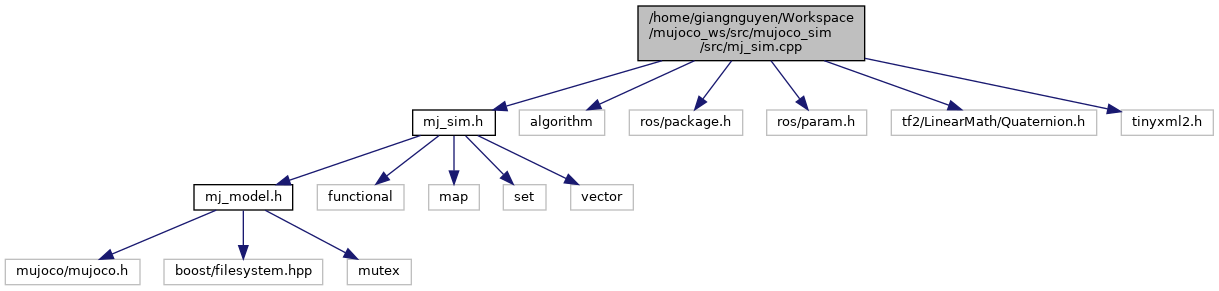
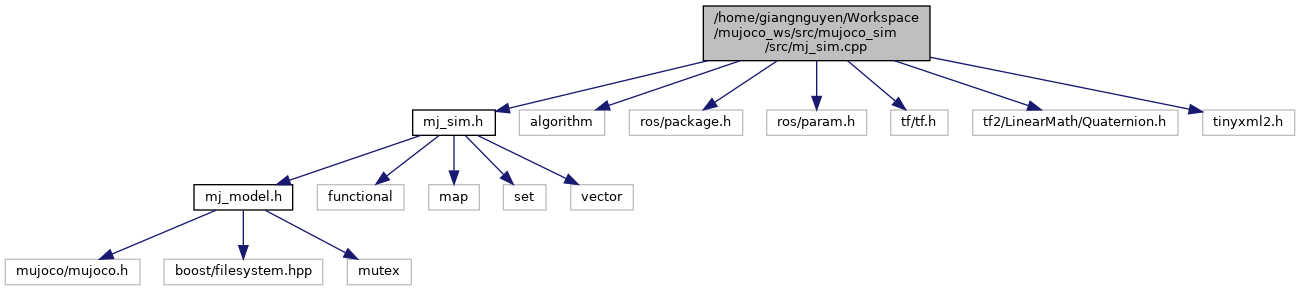
Multiply with scale

diff --git a/docs/html/mj__sim_8h_source.html b/docs/html/mj__sim_8h_source.html
@@ -155,19 +155,19 @@ $(function() {
 <div class="line"><a name="l00110"></a><span class="lineno"><a class="line" href="classMjSim.html#a33ec58bdacc7568f41b11591e6df3b58">  110</a></span>&#160;    <span class="keyword">static</span> std::map&lt;int, std::vector&lt;mjtNum&gt;&gt; <a class="code" href="classMjSim.html#a33ec58bdacc7568f41b11591e6df3b58">geom_pose</a>;</div>
 <div class="line"><a name="l00111"></a><span class="lineno">  111</span>&#160;};</div>
 </div><!-- fragment --></div><!-- contents -->
-<div class="ttc" id="aclassMjSim_html_ad993ae887ee3759a6fbf3b307c2c1fc4"><div class="ttname"><a href="classMjSim.html#ad993ae887ee3759a6fbf3b307c2c1fc4">MjSim::remove_body</a></div><div class="ttdeci">static bool remove_body(const std::vector&lt; std::string &gt; &amp;body_names)</div><div class="ttdoc">Remove bodies with name.</div><div class="ttdef"><b>Definition:</b> mj_sim.cpp:817</div></div>
+<div class="ttc" id="aclassMjSim_html_ad993ae887ee3759a6fbf3b307c2c1fc4"><div class="ttname"><a href="classMjSim.html#ad993ae887ee3759a6fbf3b307c2c1fc4">MjSim::remove_body</a></div><div class="ttdeci">static bool remove_body(const std::vector&lt; std::string &gt; &amp;body_names)</div><div class="ttdoc">Remove bodies with name.</div><div class="ttdef"><b>Definition:</b> mj_sim.cpp:853</div></div>
 <div class="ttc" id="aclassMjSim_html_a1b22b4acbcbc8d870ad07f6de414402f"><div class="ttname"><a href="classMjSim.html#a1b22b4acbcbc8d870ad07f6de414402f">MjSim::tau</a></div><div class="ttdeci">static mjtNum * tau</div><div class="ttdef"><b>Definition:</b> mj_sim.h:97</div></div>
 <div class="ttc" id="aclassMjSim_html_aa4379dd751034d7ba76d7155923f3eb2"><div class="ttname"><a href="classMjSim.html#aa4379dd751034d7ba76d7155923f3eb2">MjSim::joint_names</a></div><div class="ttdeci">static std::map&lt; std::string, std::vector&lt; std::string &gt; &gt; joint_names</div><div class="ttdef"><b>Definition:</b> mj_sim.h:83</div></div>
-<div class="ttc" id="aclassMjSim_html_a0d37111518dcde137b77be9a451e856d"><div class="ttname"><a href="classMjSim.html#a0d37111518dcde137b77be9a451e856d">MjSim::init</a></div><div class="ttdeci">void init()</div><div class="ttdoc">Initialize the simulation.</div><div class="ttdef"><b>Definition:</b> mj_sim.cpp:735</div></div>
+<div class="ttc" id="aclassMjSim_html_a0d37111518dcde137b77be9a451e856d"><div class="ttname"><a href="classMjSim.html#a0d37111518dcde137b77be9a451e856d">MjSim::init</a></div><div class="ttdeci">void init()</div><div class="ttdoc">Initialize the simulation.</div><div class="ttdef"><b>Definition:</b> mj_sim.cpp:771</div></div>
 <div class="ttc" id="aclassMjSim_html"><div class="ttname"><a href="classMjSim.html">MjSim</a></div><div class="ttdef"><b>Definition:</b> mj_sim.h:32</div></div>
-<div class="ttc" id="aclassMjSim_html_a4ba7cffb42cf4ca87dc06d0deb1c54be"><div class="ttname"><a href="classMjSim.html#a4ba7cffb42cf4ca87dc06d0deb1c54be">MjSim::init_sensors</a></div><div class="ttdeci">void init_sensors()</div><div class="ttdoc">Initialize the sensors.</div><div class="ttdef"><b>Definition:</b> mj_sim.cpp:744</div></div>
+<div class="ttc" id="aclassMjSim_html_a4ba7cffb42cf4ca87dc06d0deb1c54be"><div class="ttname"><a href="classMjSim.html#a4ba7cffb42cf4ca87dc06d0deb1c54be">MjSim::init_sensors</a></div><div class="ttdeci">void init_sensors()</div><div class="ttdoc">Initialize the sensors.</div><div class="ttdef"><b>Definition:</b> mj_sim.cpp:780</div></div>
 <div class="ttc" id="aclassMjSim_html_a893cc5a9f597dca52cb85768db696487"><div class="ttname"><a href="classMjSim.html#a893cc5a9f597dca52cb85768db696487">MjSim::spawned_object_names</a></div><div class="ttdeci">static std::set&lt; std::string &gt; spawned_object_names</div><div class="ttdef"><b>Definition:</b> mj_sim.h:91</div></div>
 <div class="ttc" id="aclassMjSim_html_a33ec58bdacc7568f41b11591e6df3b58"><div class="ttname"><a href="classMjSim.html#a33ec58bdacc7568f41b11591e6df3b58">MjSim::geom_pose</a></div><div class="ttdeci">static std::map&lt; int, std::vector&lt; mjtNum &gt; &gt; geom_pose</div><div class="ttdef"><b>Definition:</b> mj_sim.h:110</div></div>
 <div class="ttc" id="aclassMjSim_html_aaf4f7195525701e4b57ef967ca75d421"><div class="ttname"><a href="classMjSim.html#aaf4f7195525701e4b57ef967ca75d421">MjSim::add_odom_joints</a></div><div class="ttdeci">static std::map&lt; std::string, std::map&lt; std::string, bool &gt; &gt; add_odom_joints</div><div class="ttdef"><b>Definition:</b> mj_sim.h:99</div></div>
-<div class="ttc" id="amj__sim_8h_html_af8301d50bb5cd4ff96f7d72d92be4a33"><div class="ttname"><a href="mj__sim_8h.html#af8301d50bb5cd4ff96f7d72d92be4a33">load_tmp_model</a></div><div class="ttdeci">bool load_tmp_model(bool reset=true)</div><div class="ttdoc">Load the tmp_model_path.</div><div class="ttdef"><b>Definition:</b> mj_sim.cpp:693</div></div>
-<div class="ttc" id="aclassMjSim_html_a1adfd2bf3e4419677ef8063cc13ec11f"><div class="ttname"><a href="classMjSim.html#a1adfd2bf3e4419677ef8063cc13ec11f">MjSim::~MjSim</a></div><div class="ttdeci">~MjSim()</div><div class="ttdef"><b>Definition:</b> mj_sim.cpp:60</div></div>
-<div class="ttc" id="aclassMjSim_html_a6097e3b550ebc38140275ecea5f4598a"><div class="ttname"><a href="classMjSim.html#a6097e3b550ebc38140275ecea5f4598a">MjSim::set_odom_vels</a></div><div class="ttdeci">void set_odom_vels()</div><div class="ttdoc">Set the odom joint velocities.</div><div class="ttdef"><b>Definition:</b> mj_sim.cpp:848</div></div>
-<div class="ttc" id="aclassMjSim_html_ab44529fa518614fdbef0bd5a70b48399"><div class="ttname"><a href="classMjSim.html#ab44529fa518614fdbef0bd5a70b48399">MjSim::add_data</a></div><div class="ttdeci">static bool add_data()</div><div class="ttdoc">Spawn new data from file.</div><div class="ttdef"><b>Definition:</b> mj_sim.cpp:788</div></div>
+<div class="ttc" id="amj__sim_8h_html_af8301d50bb5cd4ff96f7d72d92be4a33"><div class="ttname"><a href="mj__sim_8h.html#af8301d50bb5cd4ff96f7d72d92be4a33">load_tmp_model</a></div><div class="ttdeci">bool load_tmp_model(bool reset=true)</div><div class="ttdoc">Load the tmp_model_path.</div><div class="ttdef"><b>Definition:</b> mj_sim.cpp:729</div></div>
+<div class="ttc" id="aclassMjSim_html_a1adfd2bf3e4419677ef8063cc13ec11f"><div class="ttname"><a href="classMjSim.html#a1adfd2bf3e4419677ef8063cc13ec11f">MjSim::~MjSim</a></div><div class="ttdeci">~MjSim()</div><div class="ttdef"><b>Definition:</b> mj_sim.cpp:61</div></div>
+<div class="ttc" id="aclassMjSim_html_a6097e3b550ebc38140275ecea5f4598a"><div class="ttname"><a href="classMjSim.html#a6097e3b550ebc38140275ecea5f4598a">MjSim::set_odom_vels</a></div><div class="ttdeci">void set_odom_vels()</div><div class="ttdoc">Set the odom joint velocities.</div><div class="ttdef"><b>Definition:</b> mj_sim.cpp:884</div></div>
+<div class="ttc" id="aclassMjSim_html_ab44529fa518614fdbef0bd5a70b48399"><div class="ttname"><a href="classMjSim.html#ab44529fa518614fdbef0bd5a70b48399">MjSim::add_data</a></div><div class="ttdeci">static bool add_data()</div><div class="ttdoc">Spawn new data from file.</div><div class="ttdef"><b>Definition:</b> mj_sim.cpp:824</div></div>
 <div class="ttc" id="aclassMjSim_html_a2dc314bfc332a1e99e052f41193b3eff"><div class="ttname"><a href="classMjSim.html#a2dc314bfc332a1e99e052f41193b3eff">MjSim::joint_ignores</a></div><div class="ttdeci">static std::set&lt; std::string &gt; joint_ignores</div><div class="ttdef"><b>Definition:</b> mj_sim.h:85</div></div>
 <div class="ttc" id="aclassMjSim_html_aa810b31343a0c16940cf482e29d504d0"><div class="ttname"><a href="classMjSim.html#aa810b31343a0c16940cf482e29d504d0">MjSim::u</a></div><div class="ttdeci">static mjtNum * u</div><div class="ttdef"><b>Definition:</b> mj_sim.h:95</div></div>
 <div class="ttc" id="aclassMjSim_html_aca804da71c36848ed0121b8cfb55ce08"><div class="ttname"><a href="classMjSim.html#aca804da71c36848ed0121b8cfb55ce08">MjSim::max_time_step</a></div><div class="ttdeci">static double max_time_step</div><div class="ttdef"><b>Definition:</b> mj_sim.h:81</div></div>
@@ -176,7 +176,7 @@ $(function() {
 <div class="ttc" id="aclassMjSim_html_a3cac09569d2a8805ee71453d8c2c4336"><div class="ttname"><a href="classMjSim.html#a3cac09569d2a8805ee71453d8c2c4336">MjSim::pose_inits</a></div><div class="ttdeci">static std::map&lt; std::string, std::vector&lt; float &gt; &gt; pose_inits</div><div class="ttdef"><b>Definition:</b> mj_sim.h:105</div></div>
 <div class="ttc" id="aclassMjSim_html_a0dfaec832b709cfea62ec80e5fd94bad"><div class="ttname"><a href="classMjSim.html#a0dfaec832b709cfea62ec80e5fd94bad">MjSim::odom_vels</a></div><div class="ttdeci">static std::map&lt; std::string, mjtNum &gt; odom_vels</div><div class="ttdef"><b>Definition:</b> mj_sim.h:87</div></div>
 <div class="ttc" id="aclassMjSim_html_a6bf6dfb17e4a82bc9f23e7868c7112cc"><div class="ttname"><a href="classMjSim.html#a6bf6dfb17e4a82bc9f23e7868c7112cc">MjSim::robots</a></div><div class="ttdeci">static std::vector&lt; std::string &gt; robots</div><div class="ttdef"><b>Definition:</b> mj_sim.h:101</div></div>
-<div class="ttc" id="aclassMjSim_html_a8873b8410c75a0d286298054ee06c328"><div class="ttname"><a href="classMjSim.html#a8873b8410c75a0d286298054ee06c328">MjSim::controller</a></div><div class="ttdeci">void controller()</div><div class="ttdoc">Implement the controller.</div><div class="ttdef"><b>Definition:</b> mj_sim.cpp:829</div></div>
+<div class="ttc" id="aclassMjSim_html_a8873b8410c75a0d286298054ee06c328"><div class="ttname"><a href="classMjSim.html#a8873b8410c75a0d286298054ee06c328">MjSim::controller</a></div><div class="ttdeci">void controller()</div><div class="ttdoc">Implement the controller.</div><div class="ttdef"><b>Definition:</b> mj_sim.cpp:865</div></div>
 <div class="ttc" id="amj__model_8h_html"><div class="ttname"><a href="mj__model_8h.html">mj_model.h</a></div></div>
 <div class="ttc" id="aclassMjSim_html_ab8d19db292d90e508ce690a01765e0a0"><div class="ttname"><a href="classMjSim.html#ab8d19db292d90e508ce690a01765e0a0">MjSim::reload_mesh</a></div><div class="ttdeci">static bool reload_mesh</div><div class="ttdef"><b>Definition:</b> mj_sim.h:107</div></div>
 <div class="ttc" id="aclassMjSim_html_a9539a80dbc6c2a30e001735821aaffad"><div class="ttname"><a href="classMjSim.html#a9539a80dbc6c2a30e001735821aaffad">MjSim::link_names</a></div><div class="ttdeci">static std::set&lt; std::string &gt; link_names</div><div class="ttdef"><b>Definition:</b> mj_sim.h:89</div></div>

diff --git a/docs/html/mj__ros_8h_source.html b/docs/html/mj__ros_8h_source.html
@@ -218,21 +218,21 @@ $(function() {
 <div class="line"><a name="l00253"></a><span class="lineno">  253</span>&#160;    std::map&lt;std::string, float&gt; joint_inits;</div>
 <div class="line"><a name="l00254"></a><span class="lineno">  254</span>&#160;};</div>
 </div><!-- fragment --></div><!-- contents -->
-<div class="ttc" id="aclassMjRos_html_ac370eb27a0e893853019a6ee91e8b7dd"><div class="ttname"><a href="classMjRos.html#ac370eb27a0e893853019a6ee91e8b7dd">MjRos::publish_tf</a></div><div class="ttdeci">void publish_tf(const EObjectType object_type=EObjectType::None)</div><div class="ttdoc">Publish tf.</div><div class="ttdef"><b>Definition:</b> mj_ros.cpp:1080</div></div>
+<div class="ttc" id="aclassMjRos_html_ac370eb27a0e893853019a6ee91e8b7dd"><div class="ttname"><a href="classMjRos.html#ac370eb27a0e893853019a6ee91e8b7dd">MjRos::publish_tf</a></div><div class="ttdeci">void publish_tf(const EObjectType object_type=EObjectType::None)</div><div class="ttdoc">Publish tf.</div><div class="ttdef"><b>Definition:</b> mj_ros.cpp:1088</div></div>
 <div class="ttc" id="amj__ros_8h_html_aabe7f7aab7f558d194e94364f92de670a81f4537631c9ab219ec74de554483adc"><div class="ttname"><a href="mj__ros_8h.html#aabe7f7aab7f558d194e94364f92de670a81f4537631c9ab219ec74de554483adc">World</a></div><div class="ttdeci">@ World</div><div class="ttdef"><b>Definition:</b> mj_ros.h:66</div></div>
 <div class="ttc" id="amj__sim_8h_html"><div class="ttname"><a href="mj__sim_8h.html">mj_sim.h</a></div></div>
-<div class="ttc" id="aclassMjRos_html_a6cd917b814a446c78c72fb120db9062b"><div class="ttname"><a href="classMjRos.html#a6cd917b814a446c78c72fb120db9062b">MjRos::publish_object_state_array</a></div><div class="ttdeci">void publish_object_state_array(const EObjectType object_type=EObjectType::None)</div><div class="ttdoc">Publish object states.</div><div class="ttdef"><b>Definition:</b> mj_ros.cpp:1282</div></div>
+<div class="ttc" id="aclassMjRos_html_a6cd917b814a446c78c72fb120db9062b"><div class="ttname"><a href="classMjRos.html#a6cd917b814a446c78c72fb120db9062b">MjRos::publish_object_state_array</a></div><div class="ttdeci">void publish_object_state_array(const EObjectType object_type=EObjectType::None)</div><div class="ttdoc">Publish object states.</div><div class="ttdef"><b>Definition:</b> mj_ros.cpp:1290</div></div>
 <div class="ttc" id="amj__ros_8h_html_aabe7f7aab7f558d194e94364f92de670a233067a1ddef5e57bca7e55cfd55e4c7"><div class="ttname"><a href="mj__ros_8h.html#aabe7f7aab7f558d194e94364f92de670a233067a1ddef5e57bca7e55cfd55e4c7">SpawnedObject</a></div><div class="ttdeci">@ SpawnedObject</div><div class="ttdef"><b>Definition:</b> mj_ros.h:67</div></div>
-<div class="ttc" id="aclassMjRos_html_a1ee3ddb85ce5dd2364dcc0f5776a1685"><div class="ttname"><a href="classMjRos.html#a1ee3ddb85ce5dd2364dcc0f5776a1685">MjRos::publish_base_pose</a></div><div class="ttdeci">void publish_base_pose()</div><div class="ttdoc">Publish base pose.</div><div class="ttdef"><b>Definition:</b> mj_ros.cpp:1451</div></div>
-<div class="ttc" id="aclassMjRos_html_ada54adbe85c78521f7b078133607fd13"><div class="ttname"><a href="classMjRos.html#ada54adbe85c78521f7b078133607fd13">MjRos::spawn_and_destroy_objects</a></div><div class="ttdeci">void spawn_and_destroy_objects()</div><div class="ttdoc">Run spawn and destroy objects.</div><div class="ttdef"><b>Definition:</b> mj_ros.cpp:963</div></div>
+<div class="ttc" id="aclassMjRos_html_a1ee3ddb85ce5dd2364dcc0f5776a1685"><div class="ttname"><a href="classMjRos.html#a1ee3ddb85ce5dd2364dcc0f5776a1685">MjRos::publish_base_pose</a></div><div class="ttdeci">void publish_base_pose()</div><div class="ttdoc">Publish base pose.</div><div class="ttdef"><b>Definition:</b> mj_ros.cpp:1459</div></div>
+<div class="ttc" id="aclassMjRos_html_ada54adbe85c78521f7b078133607fd13"><div class="ttname"><a href="classMjRos.html#ada54adbe85c78521f7b078133607fd13">MjRos::spawn_and_destroy_objects</a></div><div class="ttdeci">void spawn_and_destroy_objects()</div><div class="ttdoc">Run spawn and destroy objects.</div><div class="ttdef"><b>Definition:</b> mj_ros.cpp:971</div></div>
 <div class="ttc" id="aclassMjRos_html_a6ac18666bf03ec3810874f87a5533091"><div class="ttname"><a href="classMjRos.html#a6ac18666bf03ec3810874f87a5533091">MjRos::~MjRos</a></div><div class="ttdeci">~MjRos()</div><div class="ttdef"><b>Definition:</b> mj_ros.cpp:227</div></div>
 <div class="ttc" id="aclassCmdVelCallback_html"><div class="ttname"><a href="classCmdVelCallback.html">CmdVelCallback</a></div><div class="ttdef"><b>Definition:</b> mj_ros.h:46</div></div>
-<div class="ttc" id="aclassMjRos_html_a537a8e13f34c5f3015f73a57fd33e852"><div class="ttname"><a href="classMjRos.html#a537a8e13f34c5f3015f73a57fd33e852">MjRos::publish_sensor_data</a></div><div class="ttdeci">void publish_sensor_data()</div><div class="ttdoc">Publish sensor data.</div><div class="ttdef"><b>Definition:</b> mj_ros.cpp:1526</div></div>
+<div class="ttc" id="aclassMjRos_html_a537a8e13f34c5f3015f73a57fd33e852"><div class="ttname"><a href="classMjRos.html#a537a8e13f34c5f3015f73a57fd33e852">MjRos::publish_sensor_data</a></div><div class="ttdeci">void publish_sensor_data()</div><div class="ttdoc">Publish sensor data.</div><div class="ttdef"><b>Definition:</b> mj_ros.cpp:1534</div></div>
 <div class="ttc" id="aclassCmdVelCallback_html_a9064bd955326a3888310ca288a1acd33"><div class="ttname"><a href="classCmdVelCallback.html#a9064bd955326a3888310ca288a1acd33">CmdVelCallback::callback</a></div><div class="ttdeci">void callback(const geometry_msgs::Twist &amp;msg)</div><div class="ttdef"><b>Definition:</b> mj_ros.cpp:212</div></div>
 <div class="ttc" id="amj__ros_8h_html_a43ddbc6ba0014ceee874705cdc2e33c2"><div class="ttname"><a href="mj__ros_8h.html#a43ddbc6ba0014ceee874705cdc2e33c2">set_params</a></div><div class="ttdeci">void set_params()</div><div class="ttdoc">Set tmp_model_name, world_path and odom_joints.</div><div class="ttdef"><b>Definition:</b> mj_ros.cpp:73</div></div>
 <div class="ttc" id="amj__ros_8h_html_aabe7f7aab7f558d194e94364f92de670"><div class="ttname"><a href="mj__ros_8h.html#aabe7f7aab7f558d194e94364f92de670">EObjectType</a></div><div class="ttdeci">EObjectType</div><div class="ttdef"><b>Definition:</b> mj_ros.h:62</div></div>
-<div class="ttc" id="aclassMjRos_html_aefd4c6005e491db078694032388d862e"><div class="ttname"><a href="classMjRos.html#aefd4c6005e491db078694032388d862e">MjRos::publish_marker_array</a></div><div class="ttdeci">void publish_marker_array(const EObjectType object_type=EObjectType::None)</div><div class="ttdoc">Publish markers.</div><div class="ttdef"><b>Definition:</b> mj_ros.cpp:1192</div></div>
-<div class="ttc" id="aclassMjRos_html_a1b6936171c2406e1452880626b7758d9"><div class="ttname"><a href="classMjRos.html#a1b6936171c2406e1452880626b7758d9">MjRos::publish_joint_states</a></div><div class="ttdeci">void publish_joint_states(const EObjectType object_type=EObjectType::None)</div><div class="ttdoc">Publish world joint states.</div><div class="ttdef"><b>Definition:</b> mj_ros.cpp:1378</div></div>
+<div class="ttc" id="aclassMjRos_html_aefd4c6005e491db078694032388d862e"><div class="ttname"><a href="classMjRos.html#aefd4c6005e491db078694032388d862e">MjRos::publish_marker_array</a></div><div class="ttdeci">void publish_marker_array(const EObjectType object_type=EObjectType::None)</div><div class="ttdoc">Publish markers.</div><div class="ttdef"><b>Definition:</b> mj_ros.cpp:1200</div></div>
+<div class="ttc" id="aclassMjRos_html_a1b6936171c2406e1452880626b7758d9"><div class="ttname"><a href="classMjRos.html#a1b6936171c2406e1452880626b7758d9">MjRos::publish_joint_states</a></div><div class="ttdeci">void publish_joint_states(const EObjectType object_type=EObjectType::None)</div><div class="ttdoc">Publish world joint states.</div><div class="ttdef"><b>Definition:</b> mj_ros.cpp:1386</div></div>
 <div class="ttc" id="amj__ros_8h_html_aabe7f7aab7f558d194e94364f92de670ac9d3e887722f2bc482bcca9d41c512af"><div class="ttname"><a href="mj__ros_8h.html#aabe7f7aab7f558d194e94364f92de670ac9d3e887722f2bc482bcca9d41c512af">None</a></div><div class="ttdeci">@ None</div><div class="ttdef"><b>Definition:</b> mj_ros.h:64</div></div>
 <div class="ttc" id="aclassMjRos_html"><div class="ttname"><a href="classMjRos.html">MjRos</a></div><div class="ttdef"><b>Definition:</b> mj_ros.h:70</div></div>
 <div class="ttc" id="aclassMjRos_html_ac4fdfcf53d7e46c55046a43ba554e31b"><div class="ttname"><a href="classMjRos.html#ac4fdfcf53d7e46c55046a43ba554e31b">MjRos::ros_start</a></div><div class="ttdeci">static ros::Time ros_start</div><div class="ttdoc">Start time of ROS.</div><div class="ttdef"><b>Definition:</b> mj_ros.h:222</div></div>

diff --git a/docs/html/mj__model_8h_source.html b/docs/html/mj__model_8h_source.html
@@ -117,7 +117,7 @@ $(function() {
 <div class="line"><a name="l00045"></a><span class="lineno">   45</span>&#160; </div>
 <div class="line"><a name="l00046"></a><span class="lineno">   46</span>&#160;<span class="keyword">extern</span> boost::filesystem::path <a class="code" href="mj__model_8h.html#aa991bc10fa98d556b3da1d65863b5858">tmp_world_path</a>;</div>
 <div class="line"><a name="l00047"></a><span class="lineno">   47</span>&#160; </div>
-<div class="line"><a name="l00048"></a><span class="lineno">   48</span>&#160;<span class="keyword">extern</span> std::map&lt;std::string, boost::filesystem::path&gt; <a class="code" href="mj__model_8h.html#a0f39d08c52417c40f6a48ff60800dc7e">mesh_paths</a>;</div>
+<div class="line"><a name="l00048"></a><span class="lineno">   48</span>&#160;<span class="keyword">extern</span> std::map&lt;std::string, std::pair&lt;boost::filesystem::path, std::vector&lt;mjtNum&gt;&gt;&gt; <a class="code" href="mj__model_8h.html#a51d29511020033f2909e7b6924bd7eb2">mesh_paths</a>;</div>
 </div><!-- fragment --></div><!-- contents -->
 <div class="ttc" id="amj__model_8h_html_aeecea58d25fb5f1f6169c413ab9faf6e"><div class="ttname"><a href="mj__model_8h.html#aeecea58d25fb5f1f6169c413ab9faf6e">tmp_model_name</a></div><div class="ttdeci">std::string tmp_model_name</div><div class="ttdef"><b>Definition:</b> mj_model.cpp:32</div></div>
 <div class="ttc" id="amj__model_8h_html_aa991bc10fa98d556b3da1d65863b5858"><div class="ttname"><a href="mj__model_8h.html#aa991bc10fa98d556b3da1d65863b5858">tmp_world_path</a></div><div class="ttdeci">boost::filesystem::path tmp_world_path</div><div class="ttdef"><b>Definition:</b> mj_model.cpp:42</div></div>
@@ -126,7 +126,7 @@ $(function() {
 <div class="ttc" id="amj__model_8h_html_a5286cc4b814be39830d1733170b8ef3a"><div class="ttname"><a href="mj__model_8h.html#a5286cc4b814be39830d1733170b8ef3a">d</a></div><div class="ttdeci">mjData * d</div><div class="ttdef"><b>Definition:</b> mj_model.cpp:26</div></div>
 <div class="ttc" id="amj__model_8h_html_aa3242d18959d3232e36d5ed5006cd2d2"><div class="ttname"><a href="mj__model_8h.html#aa3242d18959d3232e36d5ed5006cd2d2">tmp_model_path</a></div><div class="ttdeci">boost::filesystem::path tmp_model_path</div><div class="ttdef"><b>Definition:</b> mj_model.cpp:36</div></div>
 <div class="ttc" id="amj__model_8h_html_ab809d073880cebd47e7223a73bf6ca5e"><div class="ttname"><a href="mj__model_8h.html#ab809d073880cebd47e7223a73bf6ca5e">model_path</a></div><div class="ttdeci">boost::filesystem::path model_path</div><div class="ttdef"><b>Definition:</b> mj_model.cpp:34</div></div>
-<div class="ttc" id="amj__model_8h_html_a0f39d08c52417c40f6a48ff60800dc7e"><div class="ttname"><a href="mj__model_8h.html#a0f39d08c52417c40f6a48ff60800dc7e">mesh_paths</a></div><div class="ttdeci">std::map&lt; std::string, boost::filesystem::path &gt; mesh_paths</div><div class="ttdef"><b>Definition:</b> mj_model.cpp:44</div></div>
+<div class="ttc" id="amj__model_8h_html_a51d29511020033f2909e7b6924bd7eb2"><div class="ttname"><a href="mj__model_8h.html#a51d29511020033f2909e7b6924bd7eb2">mesh_paths</a></div><div class="ttdeci">std::map&lt; std::string, std::pair&lt; boost::filesystem::path, std::vector&lt; mjtNum &gt; &gt; &gt; mesh_paths</div><div class="ttdef"><b>Definition:</b> mj_model.cpp:44</div></div>
 <div class="ttc" id="amj__model_8h_html_a2197996e6b57e659623d3d56f5f9fd63"><div class="ttname"><a href="mj__model_8h.html#a2197996e6b57e659623d3d56f5f9fd63">rtf</a></div><div class="ttdeci">double rtf</div><div class="ttdef"><b>Definition:</b> mj_model.cpp:30</div></div>
 <div class="ttc" id="amj__model_8h_html_ae517df665d331ea2030329312ed2c84b"><div class="ttname"><a href="mj__model_8h.html#ae517df665d331ea2030329312ed2c84b">world_path</a></div><div class="ttdeci">boost::filesystem::path world_path</div><div class="ttdef"><b>Definition:</b> mj_model.cpp:40</div></div>
 <div class="ttc" id="amj__model_8h_html_adb5dac2d5dd70de1f16f5189f18a8624"><div class="ttname"><a href="mj__model_8h.html#adb5dac2d5dd70de1f16f5189f18a8624">cache_model_path</a></div><div class="ttdeci">boost::filesystem::path cache_model_path</div><div class="ttdef"><b>Definition:</b> mj_model.cpp:38</div></div>

diff --git a/docs/html/mj__model_8cpp.html b/docs/html/mj__model_8cpp.html
@@ -110,8 +110,8 @@ Variables</h2></td></tr>
 <tr class="separator:ae517df665d331ea2030329312ed2c84b"><td class="memSeparator" colspan="2">&#160;</td></tr>
 <tr class="memitem:aa991bc10fa98d556b3da1d65863b5858"><td class="memItemLeft" align="right" valign="top">boost::filesystem::path&#160;</td><td class="memItemRight" valign="bottom"><a class="el" href="mj__model_8cpp.html#aa991bc10fa98d556b3da1d65863b5858">tmp_world_path</a> = <a class="el" href="mj__model_8h.html#aa3242d18959d3232e36d5ed5006cd2d2">tmp_model_path</a></td></tr>
 <tr class="separator:aa991bc10fa98d556b3da1d65863b5858"><td class="memSeparator" colspan="2">&#160;</td></tr>
-<tr class="memitem:a0f39d08c52417c40f6a48ff60800dc7e"><td class="memItemLeft" align="right" valign="top">std::map&lt; std::string, boost::filesystem::path &gt;&#160;</td><td class="memItemRight" valign="bottom"><a class="el" href="mj__model_8cpp.html#a0f39d08c52417c40f6a48ff60800dc7e">mesh_paths</a></td></tr>
-<tr class="separator:a0f39d08c52417c40f6a48ff60800dc7e"><td class="memSeparator" colspan="2">&#160;</td></tr>
+<tr class="memitem:a51d29511020033f2909e7b6924bd7eb2"><td class="memItemLeft" align="right" valign="top">std::map&lt; std::string, std::pair&lt; boost::filesystem::path, std::vector&lt; mjtNum &gt; &gt; &gt;&#160;</td><td class="memItemRight" valign="bottom"><a class="el" href="mj__model_8cpp.html#a51d29511020033f2909e7b6924bd7eb2">mesh_paths</a></td></tr>
+<tr class="separator:a51d29511020033f2909e7b6924bd7eb2"><td class="memSeparator" colspan="2">&#160;</td></tr>
 </table>
 <h2 class="groupheader">Variable Documentation</h2>
 <a id="adb5dac2d5dd70de1f16f5189f18a8624"></a>
@@ -156,14 +156,14 @@ Variables</h2></td></tr>
 
 </div>
 </div>
-<a id="a0f39d08c52417c40f6a48ff60800dc7e"></a>
-<h2 class="memtitle"><span class="permalink"><a href="#a0f39d08c52417c40f6a48ff60800dc7e">&#9670;&nbsp;</a></span>mesh_paths</h2>
+<a id="a51d29511020033f2909e7b6924bd7eb2"></a>
+<h2 class="memtitle"><span class="permalink"><a href="#a51d29511020033f2909e7b6924bd7eb2">&#9670;&nbsp;</a></span>mesh_paths</h2>
 
 <div class="memitem">
 <div class="memproto">
       <table class="memname">
         <tr>
-          <td class="memname">std::map&lt;std::string, boost::filesystem::path&gt; mesh_paths</td>
+          <td class="memname">std::map&lt;std::string, std::pair&lt;boost::filesystem::path, std::vector&lt;mjtNum&gt; &gt; &gt; mesh_paths</td>
         </tr>
       </table>
 </div><div class="memdoc">

diff --git a/docs/html/mj__model_8h.html b/docs/html/mj__model_8h.html
@@ -131,8 +131,8 @@ Variables</h2></td></tr>
 <tr class="separator:ae517df665d331ea2030329312ed2c84b"><td class="memSeparator" colspan="2">&#160;</td></tr>
 <tr class="memitem:aa991bc10fa98d556b3da1d65863b5858"><td class="memItemLeft" align="right" valign="top">boost::filesystem::path&#160;</td><td class="memItemRight" valign="bottom"><a class="el" href="mj__model_8h.html#aa991bc10fa98d556b3da1d65863b5858">tmp_world_path</a></td></tr>
 <tr class="separator:aa991bc10fa98d556b3da1d65863b5858"><td class="memSeparator" colspan="2">&#160;</td></tr>
-<tr class="memitem:a0f39d08c52417c40f6a48ff60800dc7e"><td class="memItemLeft" align="right" valign="top">std::map&lt; std::string, boost::filesystem::path &gt;&#160;</td><td class="memItemRight" valign="bottom"><a class="el" href="mj__model_8h.html#a0f39d08c52417c40f6a48ff60800dc7e">mesh_paths</a></td></tr>
-<tr class="separator:a0f39d08c52417c40f6a48ff60800dc7e"><td class="memSeparator" colspan="2">&#160;</td></tr>
+<tr class="memitem:a51d29511020033f2909e7b6924bd7eb2"><td class="memItemLeft" align="right" valign="top">std::map&lt; std::string, std::pair&lt; boost::filesystem::path, std::vector&lt; mjtNum &gt; &gt; &gt;&#160;</td><td class="memItemRight" valign="bottom"><a class="el" href="mj__model_8h.html#a51d29511020033f2909e7b6924bd7eb2">mesh_paths</a></td></tr>
+<tr class="separator:a51d29511020033f2909e7b6924bd7eb2"><td class="memSeparator" colspan="2">&#160;</td></tr>
 </table>
 <h2 class="groupheader">Variable Documentation</h2>
 <a id="adb5dac2d5dd70de1f16f5189f18a8624"></a>
@@ -177,14 +177,14 @@ Variables</h2></td></tr>
 
 </div>
 </div>
-<a id="a0f39d08c52417c40f6a48ff60800dc7e"></a>
-<h2 class="memtitle"><span class="permalink"><a href="#a0f39d08c52417c40f6a48ff60800dc7e">&#9670;&nbsp;</a></span>mesh_paths</h2>
+<a id="a51d29511020033f2909e7b6924bd7eb2"></a>
+<h2 class="memtitle"><span class="permalink"><a href="#a51d29511020033f2909e7b6924bd7eb2">&#9670;&nbsp;</a></span>mesh_paths</h2>
 
 <div class="memitem">
 <div class="memproto">
       <table class="memname">
         <tr>
-          <td class="memname">std::map&lt;std::string, boost::filesystem::path&gt; mesh_paths</td>
+          <td class="memname">std::map&lt;std::string, std::pair&lt;boost::filesystem::path, std::vector&lt;mjtNum&gt; &gt; &gt; mesh_paths</td>
         </tr>
       </table>
 </div><div class="memdoc">

diff --git a/docs/html/mj__sim_8cpp.html b/docs/html/mj__sim_8cpp.html
@@ -76,6 +76,7 @@ $(function() {
 <code>#include &lt;algorithm&gt;</code><br />
 <code>#include &lt;ros/package.h&gt;</code><br />
 <code>#include &lt;ros/param.h&gt;</code><br />
+<code>#include &lt;tf/tf.h&gt;</code><br />
 <code>#include &lt;tf2/LinearMath/Quaternion.h&gt;</code><br />
 <code>#include &lt;tinyxml2.h&gt;</code><br />
 </div><div class="textblock"><div class="dynheader">
@@ -83,13 +84,14 @@ Include dependency graph for mj_sim.cpp:</div>
 <div class="dyncontent">
 <div class="center"><img src="mj__sim_8cpp__incl.png" border="0" usemap="#_2home_2giangnguyen_2Workspace_2mujoco__ws_2src_2mujoco__sim_2src_2mj__sim_8cpp" alt=""/></div>
 <map name="_2home_2giangnguyen_2Workspace_2mujoco__ws_2src_2mujoco__sim_2src_2mj__sim_8cpp" id="_2home_2giangnguyen_2Workspace_2mujoco__ws_2src_2mujoco__sim_2src_2mj__sim_8cpp">
-<area shape="rect" title=" " alt="" coords="638,5,865,61"/>
+<area shape="rect" title=" " alt="" coords="703,5,930,61"/>
 <area shape="rect" href="mj__sim_8h.html" title=" " alt="" coords="413,109,495,136"/>
 <area shape="rect" title=" " alt="" coords="519,109,605,136"/>
 <area shape="rect" title=" " alt="" coords="629,109,743,136"/>
 <area shape="rect" title=" " alt="" coords="767,109,867,136"/>
-<area shape="rect" title=" " alt="" coords="891,109,1097,136"/>
-<area shape="rect" title=" " alt="" coords="1121,109,1213,136"/>
+<area shape="rect" title=" " alt="" coords="891,109,948,136"/>
+<area shape="rect" title=" " alt="" coords="973,109,1178,136"/>
+<area shape="rect" title=" " alt="" coords="1203,109,1295,136"/>
 <area shape="rect" href="mj__model_8h.html" title=" " alt="" coords="194,184,293,211"/>
 <area shape="rect" title=" " alt="" coords="317,184,404,211"/>
 <area shape="rect" title=" " alt="" coords="429,184,479,211"/>

diff --git a/docs/html/search/variables_9.js b/docs/html/search/variables_9.js
@@ -4,7 +4,7 @@ var searchData=
   ['marker_208',['marker',['../mj__ros_8cpp.html#a6668403339af078ca4948d80514bf485',1,'mj_ros.cpp']]],
   ['marker_5farray_209',['marker_array',['../mj__ros_8cpp.html#acbf95c03fa38f2799243d2ccb7427fd9',1,'mj_ros.cpp']]],
   ['max_5ftime_5fstep_210',['max_time_step',['../classMjSim.html#aca804da71c36848ed0121b8cfb55ce08',1,'MjSim']]],
-  ['mesh_5fpaths_211',['mesh_paths',['../mj__model_8cpp.html#a0f39d08c52417c40f6a48ff60800dc7e',1,'mesh_paths():&#160;mj_model.cpp'],['../mj__model_8h.html#a0f39d08c52417c40f6a48ff60800dc7e',1,'mesh_paths():&#160;mj_model.cpp']]],
+  ['mesh_5fpaths_211',['mesh_paths',['../mj__model_8cpp.html#a51d29511020033f2909e7b6924bd7eb2',1,'mesh_paths():&#160;mj_model.cpp'],['../mj__model_8h.html#a51d29511020033f2909e7b6924bd7eb2',1,'mesh_paths():&#160;mj_model.cpp']]],
   ['meshes_5fpath_5fstring_212',['meshes_path_string',['../mujoco__compile_8cpp.html#a002b4466f710d71c57255039bc63e88a',1,'mujoco_compile.cpp']]],
   ['model_213',['model',['../mujoco__compile_8cpp.html#a2ec70ff62d5e8410a8071003425a6fe3',1,'mujoco_compile.cpp']]],
   ['model_5fpath_214',['model_path',['../mj__model_8cpp.html#ab809d073880cebd47e7223a73bf6ca5e',1,'model_path():&#160;mj_model.cpp'],['../mj__model_8h.html#ab809d073880cebd47e7223a73bf6ca5e',1,'model_path():&#160;mj_model.cpp']]],

diff --git a/docs/html/search/all_b.js b/docs/html/search/all_b.js
@@ -5,7 +5,7 @@ var searchData=
   ['marker_36',['marker',['../mj__ros_8cpp.html#a6668403339af078ca4948d80514bf485',1,'mj_ros.cpp']]],
   ['marker_5farray_37',['marker_array',['../mj__ros_8cpp.html#acbf95c03fa38f2799243d2ccb7427fd9',1,'mj_ros.cpp']]],
   ['max_5ftime_5fstep_38',['max_time_step',['../classMjSim.html#aca804da71c36848ed0121b8cfb55ce08',1,'MjSim']]],
-  ['mesh_5fpaths_39',['mesh_paths',['../mj__model_8cpp.html#a0f39d08c52417c40f6a48ff60800dc7e',1,'mesh_paths():&#160;mj_model.cpp'],['../mj__model_8h.html#a0f39d08c52417c40f6a48ff60800dc7e',1,'mesh_paths():&#160;mj_model.cpp']]],
+  ['mesh_5fpaths_39',['mesh_paths',['../mj__model_8cpp.html#a51d29511020033f2909e7b6924bd7eb2',1,'mesh_paths():&#160;mj_model.cpp'],['../mj__model_8h.html#a51d29511020033f2909e7b6924bd7eb2',1,'mesh_paths():&#160;mj_model.cpp']]],
   ['meshes_5fpath_5fstring_40',['meshes_path_string',['../mujoco__compile_8cpp.html#a002b4466f710d71c57255039bc63e88a',1,'mujoco_compile.cpp']]],
   ['mj_5fhw_5finterface_2ecpp_41',['mj_hw_interface.cpp',['../mj__hw__interface_8cpp.html',1,'']]],
   ['mj_5fhw_5finterface_2eh_42',['mj_hw_interface.h',['../mj__hw__interface_8h.html',1,'']]],

diff --git a/docs/html/globals.html b/docs/html/globals.html
@@ -194,8 +194,8 @@ $(function() {
 : <a class="el" href="mj__ros_8cpp.html#acbf95c03fa38f2799243d2ccb7427fd9">mj_ros.cpp</a>
 </li>
 <li>mesh_paths
-: <a class="el" href="mj__model_8cpp.html#a0f39d08c52417c40f6a48ff60800dc7e">mj_model.cpp</a>
-, <a class="el" href="mj__model_8h.html#a0f39d08c52417c40f6a48ff60800dc7e">mj_model.h</a>
+: <a class="el" href="mj__model_8cpp.html#a51d29511020033f2909e7b6924bd7eb2">mj_model.cpp</a>
+, <a class="el" href="mj__model_8h.html#a51d29511020033f2909e7b6924bd7eb2">mj_model.h</a>
 </li>
 <li>meshes_path_string
 : <a class="el" href="mujoco__compile_8cpp.html#a002b4466f710d71c57255039bc63e88a">mujoco_compile.cpp</a>

diff --git a/docs/html/globals_vars.html b/docs/html/globals_vars.html
@@ -133,8 +133,8 @@ $(function() {
 : <a class="el" href="mj__ros_8cpp.html#acbf95c03fa38f2799243d2ccb7427fd9">mj_ros.cpp</a>
 </li>
 <li>mesh_paths
-: <a class="el" href="mj__model_8cpp.html#a0f39d08c52417c40f6a48ff60800dc7e">mj_model.cpp</a>
-, <a class="el" href="mj__model_8h.html#a0f39d08c52417c40f6a48ff60800dc7e">mj_model.h</a>
+: <a class="el" href="mj__model_8cpp.html#a51d29511020033f2909e7b6924bd7eb2">mj_model.cpp</a>
+, <a class="el" href="mj__model_8h.html#a51d29511020033f2909e7b6924bd7eb2">mj_model.h</a>
 </li>
 <li>meshes_path_string
 : <a class="el" href="mujoco__compile_8cpp.html#a002b4466f710d71c57255039bc63e88a">mujoco_compile.cpp</a>

diff --git a/src/mj_sim.cpp b/src/mj_sim.cpp
@@ -23,6 +23,7 @@
 #include <algorithm>
 #include <ros/package.h>
 #include <ros/param.h>
+#include <tf/tf.h>
 #include <tf2/LinearMath/Quaternion.h>
 #include <tinyxml2.h>
 
@@ -241,7 +242,15 @@ static void init_tmp()
 					{
 						asset_element->SetAttribute("file", (meshdir_abs_path / file_path).c_str());
 					}
-					mesh_paths[asset_element->Attribute("name")] = asset_element->Attribute("file");
+					std::string scale_str = "1 1 1";
+					if (asset_element->Attribute("scale") != nullptr)
+					{
+						scale_str = asset_element->Attribute("scale");
+					}
+					std::istringstream iss(scale_str);
+					std::vector<mjtNum> scale = std::vector<mjtNum>{std::istream_iterator<mjtNum>(iss), std::istream_iterator<mjtNum>()};
+
+					mesh_paths[asset_element->Attribute("name")] = {asset_element->Attribute("file"), scale};
 				}
 			}
 		}
@@ -278,7 +287,7 @@ static void init_tmp()
 				{
 					meshdir_abs_path = meshdir_path;
 				}
-				
+
 				element->DeleteAttribute("meshdir");
 			}
 		}
@@ -296,7 +305,16 @@ static void init_tmp()
 					{
 						asset_element->SetAttribute("file", (meshdir_abs_path / file_path).c_str());
 					}
-					mesh_paths[asset_element->Attribute("name")] = asset_element->Attribute("file");
+
+					std::string scale_str = "1 1 1";
+					if (asset_element->Attribute("scale") != nullptr)
+					{
+						scale_str = asset_element->Attribute("scale");
+					}
+					std::istringstream iss(scale_str);
+					std::vector<mjtNum> scale = std::vector<mjtNum>{std::istream_iterator<mjtNum>(iss), std::istream_iterator<mjtNum>()};
+
+					mesh_paths[asset_element->Attribute("name")] = {asset_element->Attribute("file"), scale};
 				}
 			}
 		}
@@ -617,28 +635,44 @@ void get_geom_element(tinyxml2::XMLElement *parent_element)
 		else if (strcmp(element->Value(), "geom") == 0 && element->Attribute("type") != nullptr && strcmp(element->Attribute("type"), "mesh") == 0)
 		{
 			std::vector<mjtNum> geom_pos = {0, 0, 0};
-			std::vector<mjtNum> geom_quat = {1, 0, 0, 0};
 			if (element->Attribute("pos") != nullptr)
 			{
 				std::string pos_str = element->Attribute("pos");
 				std::istringstream iss(pos_str);
 				geom_pos = std::vector<mjtNum>{std::istream_iterator<mjtNum>(iss), std::istream_iterator<mjtNum>()};
 			}
+			for (size_t i = 0; i < geom_pos.size(); i++)
+			{
+				geom_pos[i] *= mesh_paths[element->Attribute("mesh")].second[i];
+			}
+
+			std::vector<mjtNum> euler = {0, 0, 0};
 			if (element->Attribute("quat") != nullptr)
 			{
 				std::string quat_str = element->Attribute("quat");
 				std::istringstream iss(quat_str);
-				geom_quat = std::vector<mjtNum>{std::istream_iterator<mjtNum>(iss), std::istream_iterator<mjtNum>()};
+				std::vector<mjtNum> geom_quat = std::vector<mjtNum>{std::istream_iterator<mjtNum>(iss), std::istream_iterator<mjtNum>()};
+				tf::Quaternion quat(geom_quat[1], geom_quat[2], geom_quat[3], geom_quat[0]);
+				tf::Matrix3x3 rot_mat(quat);
+				rot_mat.getRPY(euler[0], euler[1], euler[2]);
 			}
 			else if (element->Attribute("euler") != nullptr)
 			{
 				std::string euler_str = element->Attribute("euler");
 				std::istringstream iss(euler_str);
-				std::vector<mjtNum> mesh_euler = std::vector<mjtNum>{std::istream_iterator<mjtNum>(iss), std::istream_iterator<mjtNum>()};
-				tf2::Quaternion quat;
-				quat.setRPY(mesh_euler[0], mesh_euler[1], mesh_euler[2]);
-				geom_quat = {quat.getW(), quat.getX(), quat.getY(), quat.getZ()};
+				euler = std::vector<mjtNum>{std::istream_iterator<mjtNum>(iss), std::istream_iterator<mjtNum>()};
 			}
+			for (size_t i = 0; i < euler.size(); i++)
+			{
+				if (mesh_paths[element->Attribute("mesh")].second[i + 3] < 0)
+				{
+					euler[i] += M_PI;
+				}
+			}
+
+			tf2::Quaternion quat;
+			quat.setRPY(euler[0], euler[1], euler[2]);
+			std::vector<mjtNum> geom_quat = {quat.getW(), quat.getX(), quat.getY(), quat.getZ()};
 
 			const int mesh_id = mj_name2id(m, mjtObj::mjOBJ_MESH, element->Attribute("mesh"));
 			for (int geom_id = 0; geom_id < m->ngeom; geom_id++)
@@ -667,7 +701,7 @@ bool save_geom_quat(const char *path)
 		mju_warning_s("Failed to load file \"%s\"\n", path);
 		return false;
 	}
-	
+
 	for (tinyxml2::XMLElement *worldbody_element = xml_doc.FirstChildElement()->FirstChildElement();
 			 worldbody_element != nullptr;
 			 worldbody_element = worldbody_element->NextSiblingElement())
@@ -708,7 +742,7 @@ bool load_tmp_model(bool reset)
 		init_malloc();
 
 		MjSim::geom_pose.clear();
-		return save_geom_quat(tmp_model_path.c_str());
+		return save_geom_quat(cache_model_path.c_str()) && save_geom_quat(tmp_model_path.c_str());
 	}
 	else
 	{

diff --git a/src/mj_ros.cpp b/src/mj_ros.cpp
@@ -697,7 +697,15 @@ void MjRos::spawn_objects(const std::vector<mujoco_msgs::ObjectStatus> objects)
                                     {
                                         element->SetAttribute("file", (mesh_dir / element->Attribute("file")).c_str());
                                     }
-                                    mesh_paths[element->Attribute("name")] = element->Attribute("file");
+                                    std::string scale_str = "1 1 1";
+                                    if (element->Attribute("scale") != nullptr)
+                                    {
+                                        scale_str = element->Attribute("scale");
+                                    }
+                                    std::istringstream iss(scale_str);
+				                    std::vector<mjtNum> scale = std::vector<mjtNum>{std::istream_iterator<mjtNum>(iss), std::istream_iterator<mjtNum>()};
+                                    
+                                    mesh_paths[element->Attribute("name")] = {element->Attribute("file"), scale};
                                 }
                             }
                         }
@@ -1594,10 +1602,10 @@ void MjRos::add_marker(const int body_id, const EObjectType object_type)
 
         case mjtGeom::mjGEOM_MESH:
             marker[object_type].type = visualization_msgs::Marker::MESH_RESOURCE;
-            mesh_path = boost::filesystem::relative(mesh_paths[mj_id2name(m, mjtObj::mjOBJ_MESH, m->geom_dataid[geom_id])], tmp_world_path.parent_path());
+            mesh_path = boost::filesystem::relative(mesh_paths[mj_id2name(m, mjtObj::mjOBJ_MESH, m->geom_dataid[geom_id])].first, tmp_world_path.parent_path());
             if (!boost::filesystem::exists(tmp_world_path.parent_path() / mesh_path) || !mesh_path.has_extension())
             {
-                ROS_WARN("Body %s: Mesh %s - %s not found in %s", mj_id2name(m, mjtObj::mjOBJ_BODY, body_id), mj_id2name(m, mjtObj::mjOBJ_MESH, m->geom_dataid[geom_id]), mesh_paths[std::string(mj_id2name(m, mjtObj::mjOBJ_MESH, m->geom_dataid[geom_id]))].c_str(), mesh_path.parent_path().c_str());
+                ROS_WARN("Body %s: Mesh %s - %s not found in %s", mj_id2name(m, mjtObj::mjOBJ_BODY, body_id), mj_id2name(m, mjtObj::mjOBJ_MESH, m->geom_dataid[geom_id]), mesh_paths[std::string(mj_id2name(m, mjtObj::mjOBJ_MESH, m->geom_dataid[geom_id]))].first.c_str(), mesh_path.parent_path().c_str());
                 continue;
             }
             marker[object_type].mesh_resource = "package://mujoco_sim/model/tmp/" + mesh_path.string();
